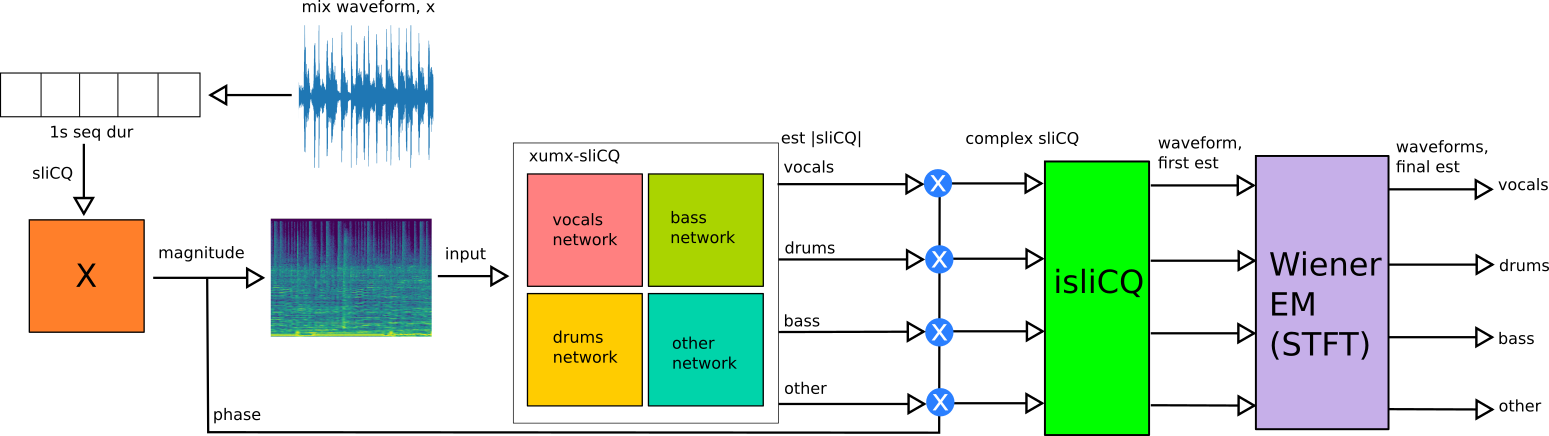
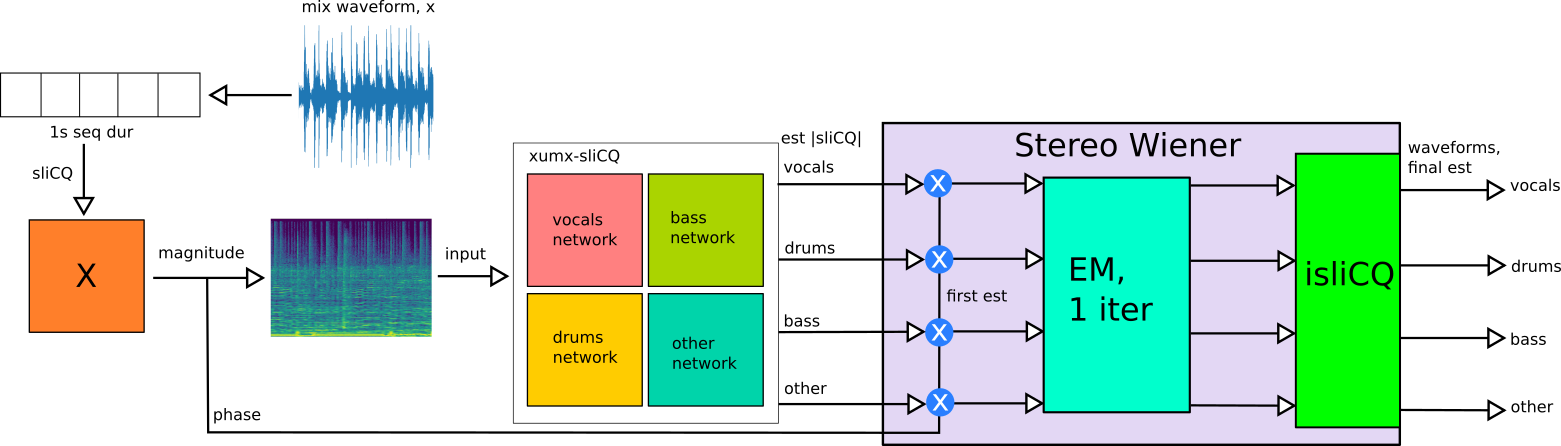
Native sliCQ-based Wiener EM

diff --git a/openunmix/model.py b/openunmix/model.py
@@ -222,22 +222,13 @@ class Separator(nn.Module):
         nb_channels: int = 2,
         device: str = "cpu",
         niter: int = 1,
-        stft_wiener: bool = True,
         softmask: bool = False,
-        wiener_win_len: Optional[int] = 300,
     ):
         super(Separator, self).__init__()
 
         # saving parameters
         self.niter = niter
         self.softmask = softmask
-        self.wiener_win_len = wiener_win_len
-
-        # whether to use wiener EM with the stft, or natively on the slicq (experimental)
-        self.stft_wiener = stft_wiener
-
-        self.n_fft = 4096
-        self.n_hop = 1024
 
         self.device = device
 
@@ -278,153 +269,112 @@ class Separator(nn.Module):
         # xumx inference - magnitude slicq estimate
         Ymag_bass, Ymag_vocals, Ymag_other, Ymag_drums = self.xumx_model(Xmag)
 
-        if self.stft_wiener:
-            # mix phase + magnitude estimate
-            Ycomplex_bass = phasemix_sep(X, Ymag_bass)
-            Ycomplex_vocals = phasemix_sep(X, Ymag_vocals)
-            Ycomplex_drums = phasemix_sep(X, Ymag_drums)
-            Ycomplex_other = phasemix_sep(X, Ymag_other)
+        print('sliCQ WIENER')
 
-            y_bass = self.insgt(Ycomplex_bass, audio.shape[-1])
-            y_drums = self.insgt(Ycomplex_drums, audio.shape[-1])
-            y_other = self.insgt(Ycomplex_other, audio.shape[-1])
-            y_vocals = self.insgt(Ycomplex_vocals, audio.shape[-1])
+        # block-wise wiener
+        # assemble it all into a zero-padded matrix
 
-            # initial estimate was obtained with slicq
-            # now we switch to the STFT domain for the wiener step
+        total_f_bins = 0
+        max_t_bins = 0
+        for i, X_block in enumerate(X):
+            nb_samples, nb_channels, nb_f_bins, nb_slices, nb_t_bins, last_dim = X_block.shape
+            total_f_bins += nb_f_bins
+            max_t_bins = max(max_t_bins, nb_t_bins)
 
-            print('STFT WIENER')
-            audio = torch.squeeze(audio, dim=0)
-            
-            mix_stft = torch.view_as_real(torch.stft(audio, self.n_fft, hop_length=self.n_hop, return_complex=True))
-            X = torch.abs(torch.view_as_complex(mix_stft))
-            
-            # initializing spectrograms variable
-            spectrograms = torch.zeros(X.shape + (nb_sources,), dtype=audio.dtype, device=X.device)
+        X_matrix = torch.zeros((nb_samples, nb_channels, total_f_bins, nb_slices, max_t_bins, last_dim), dtype=X[0].dtype, device=X[0].device)
 
-            for j, target_name in enumerate(["vocals", "drums", "bass", "other"]):
-                # apply current model to get the source spectrogram
-                if target_name == 'bass':
-                    target_est = torch.squeeze(y_bass, dim=0)
-                elif target_name == 'vocals':
-                    target_est = torch.squeeze(y_vocals, dim=0)
-                elif target_name == 'drums':
-                    target_est = torch.squeeze(y_drums, dim=0)
-                elif target_name == 'other':
-                    target_est = torch.squeeze(y_other, dim=0)
-                spectrograms[..., j] = torch.abs(torch.stft(target_est, self.n_fft, hop_length=self.n_hop, return_complex=True))
+        freq_start = 0
+        for i, X_block in enumerate(X):
+            nb_samples, nb_channels, nb_f_bins, nb_slices, nb_t_bins, last_dim = X_block.shape
 
-            # transposing it as
-            # (nb_samples, nb_frames, nb_bins,{1,nb_channels}, nb_sources)
+            # assign up to the defined time bins - to the right will be zeros
+            X_matrix[:, :, freq_start:freq_start+nb_f_bins, :, : nb_t_bins, :] = X_block
 
-            spectrograms = spectrograms.permute(2, 1, 0, 3)
+            freq_start += nb_f_bins
 
-            # rearranging it into:
-            # (nb_samples, nb_frames, nb_bins, nb_channels, 2) to feed
-            # into filtering methods
-            mix_stft = mix_stft.permute(2, 1, 0, 3)
+        Xmag_matrix = torch.abs(torch.view_as_complex(X_matrix))
 
-            nb_frames = spectrograms.shape[0]
-            targets_stft = torch.zeros(
-                mix_stft.shape + (nb_sources,), dtype=audio.dtype, device=mix_stft.device
-            )
+        Ybass_matrix = torch.empty_like(Xmag_matrix)
+        Ydrums_matrix = torch.empty_like(Xmag_matrix)
+        Yvocals_matrix = torch.empty_like(Xmag_matrix)
+        Yother_matrix = torch.empty_like(Xmag_matrix)
 
-            pos = 0
-            if self.wiener_win_len:
-                wiener_win_len = self.wiener_win_len
-            else:
-                wiener_win_len = nb_frames
-            while pos < nb_frames:
-                cur_frame = torch.arange(pos, min(nb_frames, pos + wiener_win_len))
-                pos = int(cur_frame[-1]) + 1
+        freq_start = 0
+        for i, X_block in enumerate(X):
+            nb_samples, nb_channels, nb_f_bins, nb_slices, nb_t_bins, _ = X_block.shape
 
-                targets_stft[cur_frame] = wiener(
-                    spectrograms[cur_frame],
-                    mix_stft[cur_frame],
-                    self.niter,
-                    softmask=self.softmask,
-                    slicq=False, # stft wiener
-                )
+            # assign up to the defined time bins - to the right will be zeros
 
-            # getting to (nb_samples, nb_targets, channel, fft_size, n_frames, 2)
-            targets_stft = torch.view_as_complex(targets_stft.permute(4, 2, 1, 0, 3).contiguous())
+            Ybass_matrix[:, :, freq_start:freq_start+nb_f_bins, :, : nb_t_bins] = Ymag_bass[i]
+            Yvocals_matrix[:, :, freq_start:freq_start+nb_f_bins, :, : nb_t_bins] = Ymag_vocals[i]
+            Ydrums_matrix[:, :, freq_start:freq_start+nb_f_bins, :, : nb_t_bins] = Ymag_drums[i]
+            Yother_matrix[:, :, freq_start:freq_start+nb_f_bins, :, : nb_t_bins] = Ymag_other[i]
 
-            # inverse STFT
-            estimates = torch.empty(audio.shape + (nb_sources,), dtype=audio.dtype, device=audio.device)
+            freq_start += nb_f_bins
 
-            for j, target_name in enumerate(["vocals", "drums", "bass", "other"]):
-                estimates[..., j] = torch.istft(targets_stft[j, ...], self.n_fft, hop_length=self.n_hop, length=audio.shape[-1])
+        spectrograms = torch.zeros(Xmag_matrix.shape + (nb_sources,), dtype=audio.dtype, device=Xmag_matrix.device)
 
-            estimates = torch.unsqueeze(estimates, dim=0).permute(0, 3, 1, 2).contiguous()
-        else:
-            print('sliCQ WIENER')
-            spectrograms = [None]*len(X)
+        for j, target_name in enumerate(["vocals", "drums", "bass", "other"]):
+            # apply current model to get the source spectrogram
+            if target_name == 'bass':
+                target_est = Ybass_matrix
+            elif target_name == 'vocals':
+                target_est = Yvocals_matrix
+            elif target_name == 'drums':
+                target_est = Ydrums_matrix
+            elif target_name == 'other':
+                target_est = Yother_matrix
+            spectrograms[..., j] = target_est
 
+        spectrograms = wiener(
+            torch.squeeze(spectrograms, dim=0),
+            torch.squeeze(X_matrix, dim=0),
+            self.niter,
+            softmask=self.softmask,
+        )
+
+        # matrix back to list form for insgt
+        slicq_vocals = [None]*len(X)
+        slicq_bass = [None]*len(X)
+        slicq_drums = [None]*len(X)
+        slicq_other = [None]*len(X)
+
+        for j, target_name in enumerate(["vocals", "drums", "bass", "other"]):
+            curr_target_spec = spectrograms[..., j]
+
+            nb_samples, nb_channels, nb_f_bins, nb_slices, nb_t_bins = Xmag_matrix.shape
+
+            # reverse the wiener/EM permutes etc.
+            curr_target_spec = torch.unsqueeze(curr_target_spec.permute(2, 1, 0, 3), dim=0)
+            curr_target_spec = curr_target_spec.reshape(nb_samples, nb_channels, nb_f_bins, nb_slices, nb_t_bins, curr_target_spec.shape[-1])
+
+            freq_start = 0
             for i, X_block in enumerate(X):
-                # block-size wiener
+                nb_samples, nb_channels, nb_f_bins, nb_slices, nb_t_bins, _ = X_block.shape
 
-                # drop the batch size of 1 with the squeeze call
-                spectrograms_block = torch.zeros(Xmag[i].shape + (nb_sources,), dtype=audio.dtype, device=X_block.device)
-
-                for j, target_name in enumerate(["vocals", "drums", "bass", "other"]):
-                    # apply current model to get the source spectrogram
-                    if target_name == 'bass':
-                        target_est = Ymag_bass[i]
-                    elif target_name == 'vocals':
-                        target_est = Ymag_vocals[i]
-                    elif target_name == 'drums':
-                        target_est = Ymag_drums[i]
-                    elif target_name == 'other':
-                        target_est = Ymag_other[i]
-                    spectrograms_block[..., j] = target_est
-
-                targets_slicq_block = wiener(
-                    torch.squeeze(spectrograms_block, dim=0),
-                    torch.squeeze(X_block, dim=0),
-                    self.niter,
-                    softmask=self.softmask,
-                    slicq=True, # slicq wiener
-                )
-
-                # we have to undo the flatten, permute, reshape, etc. that were necessary for the slicq wiener EM
-
-                # store the wiener-EM refined blocks in the list
-                spectrograms[i] = targets_slicq_block
-
-            slicq_vocals = [None]*len(X)
-            slicq_bass = [None]*len(X)
-            slicq_drums = [None]*len(X)
-            slicq_other = [None]*len(X)
-
-            for j, target_name in enumerate(["vocals", "drums", "bass", "other"]):
-                for i in range(len(X)):
-                    curr_target_spec = spectrograms[i][..., j]
-                    nb_samples, nb_channels, nb_f_bins, nb_slices, nb_t_bins = Xmag[i].shape
-
-                    curr_target_spec = torch.unsqueeze(curr_target_spec.permute(2, 1, 0, 3), dim=0)
-                    curr_target_spec = curr_target_spec.reshape(nb_samples, nb_channels, nb_f_bins, nb_slices, nb_t_bins, curr_target_spec.shape[-1])
-
-                    if target_name == 'bass':
-                        slicq_bass[i] = curr_target_spec.contiguous()
-                    elif target_name == 'vocals':
-                        slicq_vocals[i] = curr_target_spec.contiguous()
-                    elif target_name == 'drums':
-                        slicq_drums[i] = curr_target_spec.contiguous()
-                    elif target_name == 'other':
-                        slicq_other[i] = curr_target_spec.contiguous()
-
-            estimates = torch.empty(audio.shape + (nb_sources,), dtype=audio.dtype, device=audio.device)
-            for j, target_name in enumerate(["vocals", "drums", "bass", "other"]):
                 if target_name == 'bass':
-                    estimates[..., j] = self.insgt(slicq_bass, audio.shape[-1])
+                    slicq_bass[i] = curr_target_spec[:, :, freq_start:freq_start+nb_f_bins, :, : nb_t_bins, :].contiguous()
                 elif target_name == 'vocals':
-                    estimates[..., j] = self.insgt(slicq_vocals, audio.shape[-1])
+                    slicq_vocals[i] = curr_target_spec[:, :, freq_start:freq_start+nb_f_bins, :, : nb_t_bins, :].contiguous()
                 elif target_name == 'drums':
-                    estimates[..., j] = self.insgt(slicq_drums, audio.shape[-1])
+                    slicq_drums[i] = curr_target_spec[:, :, freq_start:freq_start+nb_f_bins, :, : nb_t_bins, :].contiguous()
                 elif target_name == 'other':
-                    estimates[..., j] = self.insgt(slicq_other, audio.shape[-1])
+                    slicq_other[i] = curr_target_spec[:, :, freq_start:freq_start+nb_f_bins, :, : nb_t_bins, :].contiguous()
 
-            estimates = estimates.permute(0, 3, 1, 2).contiguous()
+                freq_start += nb_f_bins
+
+        estimates = torch.empty(audio.shape + (nb_sources,), dtype=audio.dtype, device=audio.device)
+        for j, target_name in enumerate(["vocals", "drums", "bass", "other"]):
+            if target_name == 'bass':
+                estimates[..., j] = self.insgt(slicq_bass, audio.shape[-1])
+            elif target_name == 'vocals':
+                estimates[..., j] = self.insgt(slicq_vocals, audio.shape[-1])
+            elif target_name == 'drums':
+                estimates[..., j] = self.insgt(slicq_drums, audio.shape[-1])
+            elif target_name == 'other':
+                estimates[..., j] = self.insgt(slicq_other, audio.shape[-1])
+
+        estimates = estimates.permute(0, 3, 1, 2).contiguous()
 
         return estimates
 

diff --git a/openunmix/filtering.py b/openunmix/filtering.py
@@ -157,7 +157,6 @@ def expectation_maximization(
     iterations: int = 2,
     eps: float = 1e-10,
     batch_size: int = 200,
-    slicq: bool = False,
 ):
     r"""Expectation maximization algorithm, for refining source separation
     estimates.
@@ -189,15 +188,14 @@ def expectation_maximization(
         precision, by e.g. calling :func:`expectation_maximization`
         with ``x.to(torch.float64)``.
     """
-    if slicq:
-        # flatten slice and time bin
-        # this is missing the overlap but it won't matter in the EM context
-        x = torch.flatten(x, start_dim=2, end_dim=3)
-        y = torch.flatten(y, start_dim=2, end_dim=3)
+    # flatten slice and time bin
+    # this is missing the overlap but it won't matter in the EM context
+    x = torch.flatten(x, start_dim=2, end_dim=3)
+    y = torch.flatten(y, start_dim=2, end_dim=3)
 
-        # swap around dims
-        x = x.permute(2, 1, 0, 3)
-        y = y.permute(2, 1, 0, 3, 4)
+    # swap around dims
+    x = x.permute(2, 1, 0, 3)
+    y = y.permute(2, 1, 0, 3, 4)
 
     (nb_frames, nb_bins, nb_channels) = x.shape[:-1]
     nb_sources = y.shape[-1]
@@ -295,7 +293,6 @@ def wiener(
     iterations: int = 1,
     softmask: bool = False,
     residual: bool = False,
-    slicq: bool = False,
     scale_factor: float = 10.0,
     eps: float = 1e-10,
 ):
@@ -426,7 +423,7 @@ def wiener(
     y = y.to(torch.float64)
 
     # call expectation maximization
-    y = expectation_maximization(y, mix_stft.to(torch.float64), iterations, eps=eps, slicq=slicq)[0]
+    y = expectation_maximization(y, mix_stft.to(torch.float64), iterations, eps=eps)[0]
 
     # scale estimates up again
     y = y * max_abs

diff --git a/README.md b/README.md
@@ -36,7 +36,7 @@ The architecture diagram of xumx-sliCQ shows how closely it resembles Open-Unmix
 
 ![xumx_system](./docs/xumx_slicq_system.png)
 
-There is an option to perform the Wiener EM step directly on the sliCQ (`stft_wiener=False` in the Separator class), but the execution time is much slower than the STFT-based Wiener EM, for a negligible boost in SDR. In practice, 1 iteration of STFT-based Wiener EM gives a modest performance boost with an acceptable performance penalty ([further discussed here](https://discourse.aicrowd.com/t/umx-iterative-wiener-expectation-maximization-for-non-stft-time-frequency-transforms/6191)).
+The ragged sliCQ is stored in a matrix with zero-padding to perform a relatively fast Wiener EM step directly on the sliCQ transform ([adapting STFT Wiener EM to the sliCQ is discussed here](https://discourse.aicrowd.com/t/umx-iterative-wiener-expectation-maximization-for-non-stft-time-frequency-transforms/6191)).
 
 A look into each of the 4 target networks of xumx-sliCQ shows how the convolutional network architecture is applied per-block of the ragged sliCQ transform, where each block contains the frequency bins that share the same time resolution:
 
